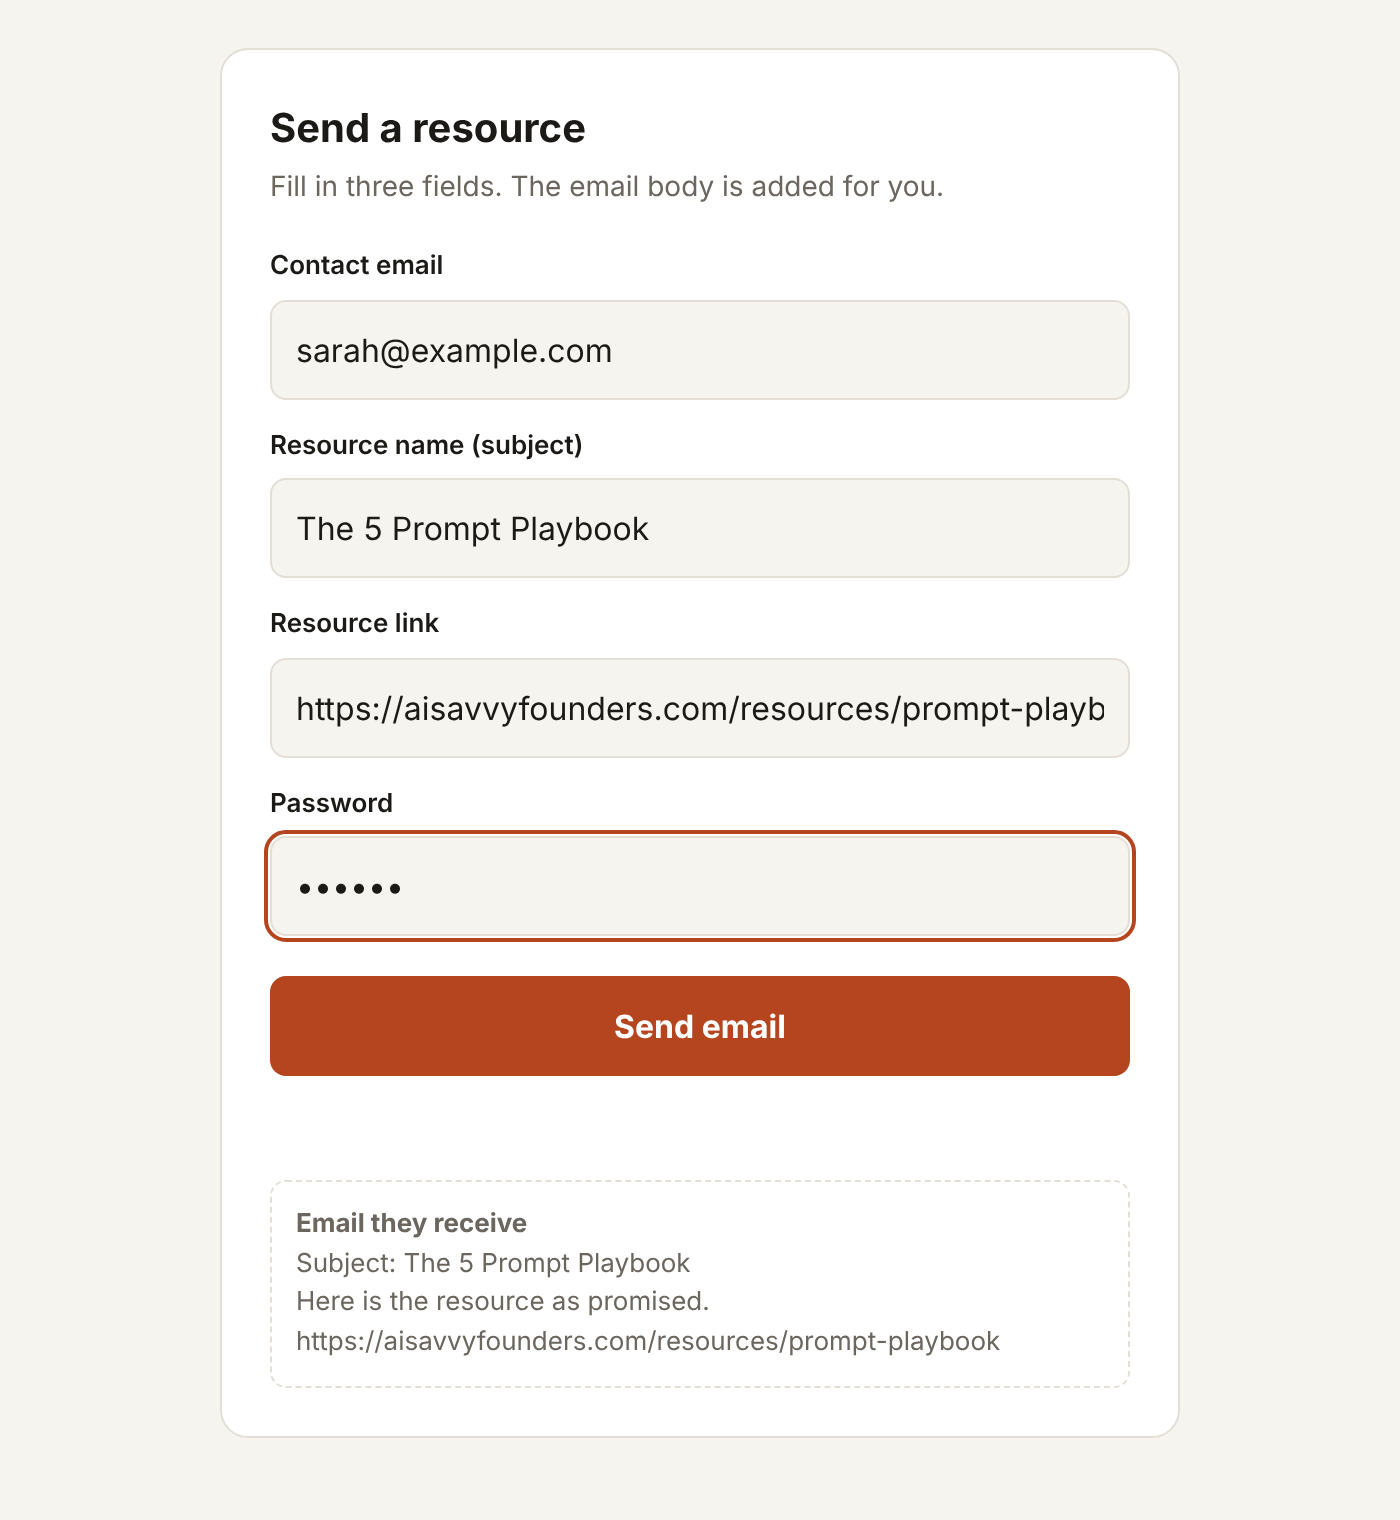
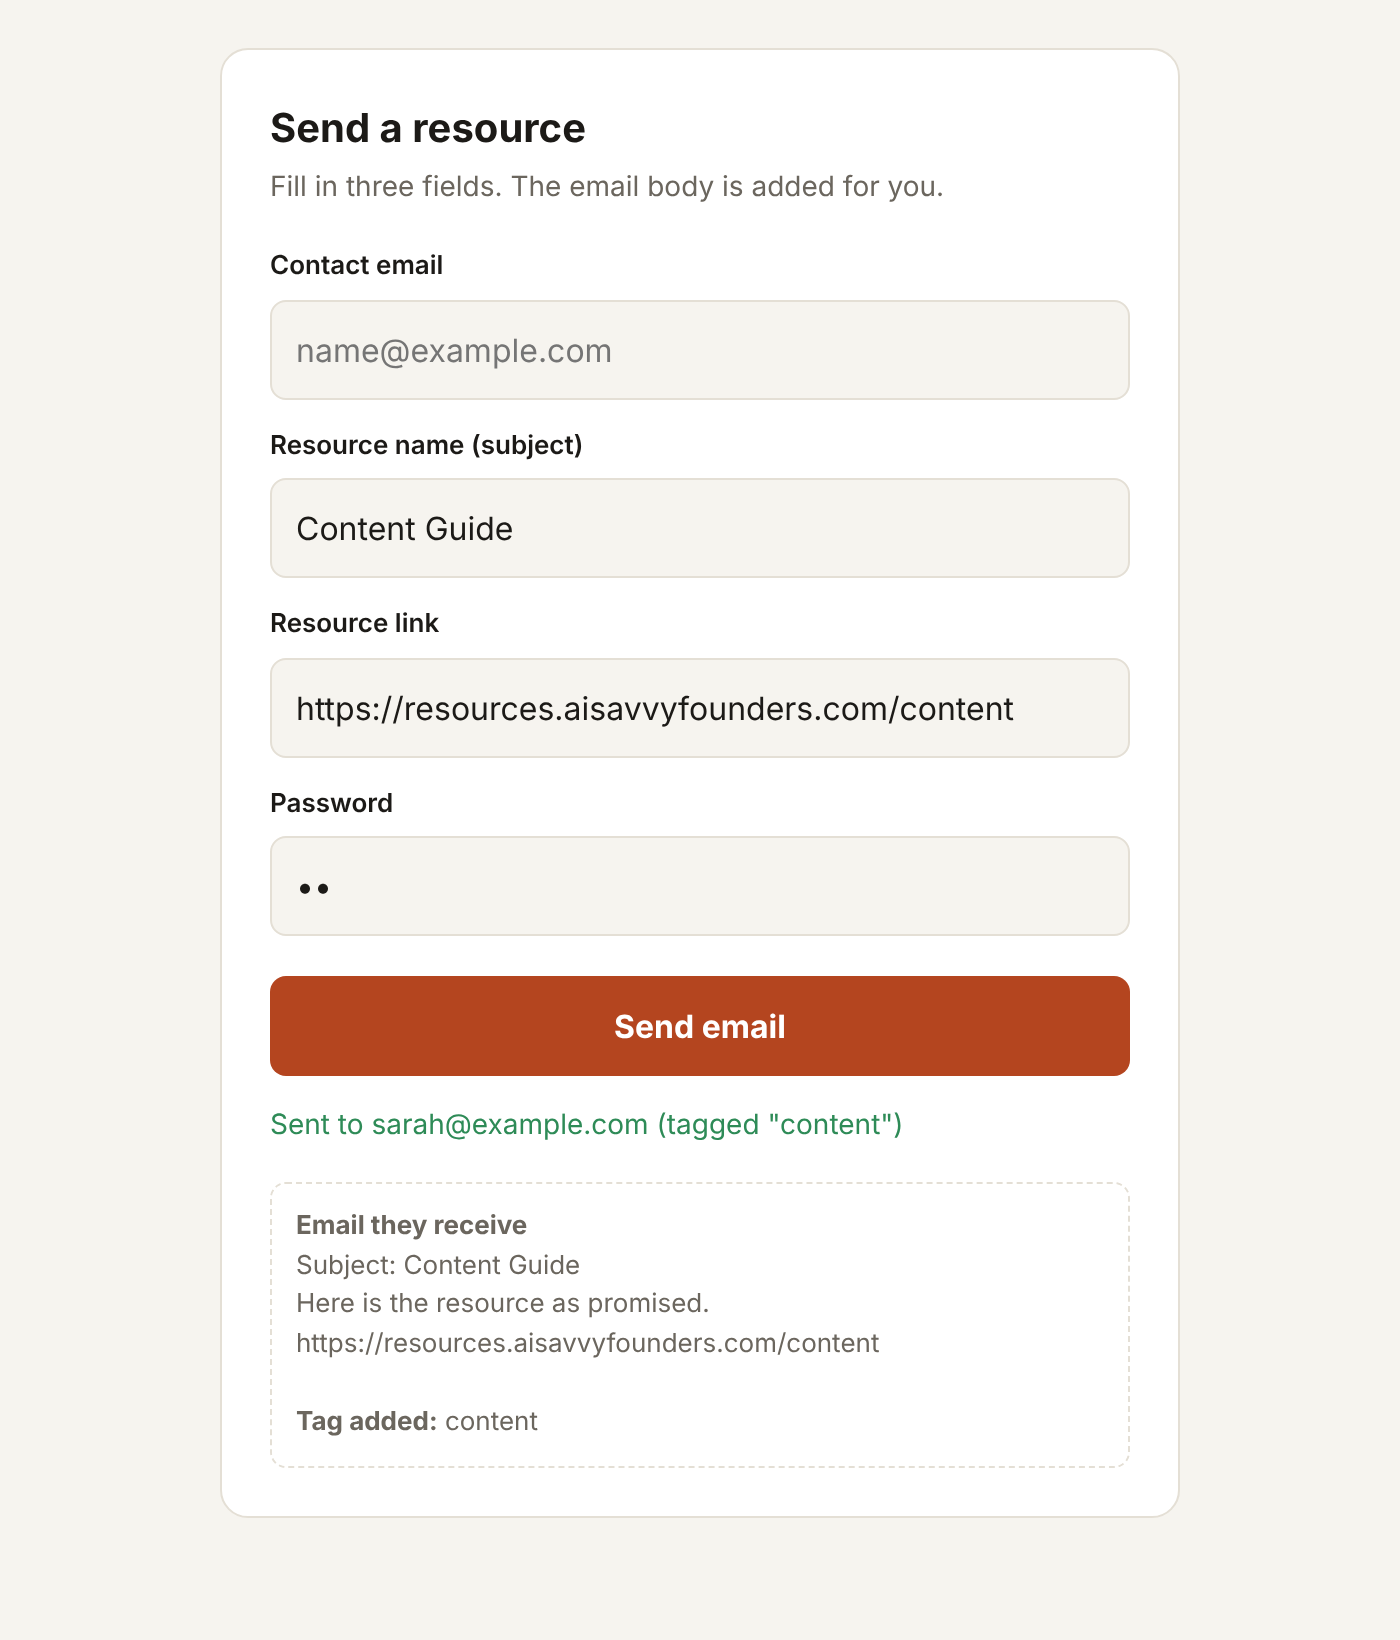
Tag contacts from the resource link slug
Claude-Session: https://claude.ai/code/session_01GNtKZBMB2dRwmVaVoFCEqe

Changed region(s): [[0.1843, 0.1546, 0.8293, 0.7112], [0.215, 0.7421, 0.7064, 0.8967], [0.1843, 0.0618, 0.6757, 0.1237]]

diff --git a/resource-sender-next/app/api/send/route.js b/resource-sender-next/app/api/send/route.js
@@ -1,5 +1,6 @@
 import { NextResponse } from "next/server";
 import { buildEmail } from "../../email-template";
+import { tagFromLink } from "../../../lib/tag";
 
 const GHL = "https://services.leadconnectorhq.com";
 
@@ -42,13 +43,26 @@ export async function POST(request) {
     const contactId = up.contact?.id;
     if (!contactId) throw new Error("Could not find or create the contact");
 
+    // Tag the contact with the term after the resource domain (adds, never replaces).
+    const tag = tagFromLink(url);
+    let tagged = null;
+    let tagError = null;
+    if (tag) {
+      try {
+        await ghl(`/contacts/${contactId}/tags`, { tags: [tag] });
+        tagged = tag;
+      } catch (e) {
+        tagError = e.message;
+      }
+    }
+
     const { text, html } = buildEmail(url, subj);
     const msg = { type: "Email", contactId, subject: subj, message: text, html };
     if (process.env.FROM_EMAIL) {
       msg.emailFrom = process.env.FROM_NAME ? `${process.env.FROM_NAME} <${process.env.FROM_EMAIL}>` : process.env.FROM_EMAIL;
     }
     await ghl("/conversations/messages", msg);
-    return NextResponse.json({ ok: true, isNew: !!up.new });
+    return NextResponse.json({ ok: true, isNew: !!up.new, tag: tagged, tagError });
   } catch (e) {
     return NextResponse.json({ error: e.message }, { status: 502 });
   }

diff --git a/resource-sender-next/app/page.js b/resource-sender-next/app/page.js
@@ -1,6 +1,7 @@
 "use client";
 
 import { useEffect, useState } from "react";
+import { tagFromLink } from "../lib/tag";
 
 export default function Home() {
   const [email, setEmail] = useState("");
@@ -31,7 +32,8 @@ export default function Home() {
       try {
         localStorage.setItem("rs_pw", password);
       } catch {}
-      setMsg({ type: "ok", text: `Sent to ${email.trim()}${data.isNew ? " (new contact created)" : ""}` });
+      const extra = [data.isNew ? "new contact created" : "", data.tag ? `tagged "${data.tag}"` : ""].filter(Boolean).join(", ");
+      setMsg({ type: data.tagError ? "err" : "ok", text: `Sent to ${email.trim()}${extra ? ` (${extra})` : ""}${data.tagError ? `. Tag failed: ${data.tagError}` : ""}` });
       setEmail("");
     } catch (err) {
       setMsg({ type: "err", text: err.message });
@@ -65,6 +67,9 @@ export default function Home() {
         Here is the resource as promised.
         <br />
         {link || "(link)"}
+        <br />
+        <br />
+        <b>Tag added:</b> {tagFromLink(link) || "none (link is not on the resources site)"}
       </div>
     </main>
   );

diff --git a/resource-sender-next/lib/tag.js b/resource-sender-next/lib/tag.js
@@ -1,0 +1,15 @@
+// Turns a resource link into a GoHighLevel tag.
+// https://resources.aisavvyfounders.com/content  ->  "content"
+// Only the first path segment is used; query strings and #anchors are ignored.
+export const RESOURCE_HOST = "resources.aisavvyfounders.com";
+
+export function tagFromLink(link) {
+  try {
+    const u = new URL(String(link).trim());
+    if (u.hostname.toLowerCase() !== RESOURCE_HOST) return null;
+    const slug = decodeURIComponent(u.pathname.split("/").filter(Boolean)[0] || "").trim().toLowerCase();
+    return slug || null;
+  } catch {
+    return null;
+  }
+}

diff --git a/resource-sender-next/README.md b/resource-sender-next/README.md
@@ -7,6 +7,11 @@ GoHighLevel account, so it appears in their conversation history.
 Email: branded layout with the resource name as the title, "Here is the resource as promised", and a button linking to the resource.
 Subject: the resource name you type.
 
+## Tagging
+The contact is tagged with the first term after `https://resources.aisavvyfounders.com/`
+(for example `.../content` adds the tag `content`). Existing tags are kept. Links on other
+domains are sent without a tag. Change the domain in `lib/tag.js`.
+
 ## 1. Get your GoHighLevel details
 - **Token:** Settings > Private Integrations > Create new. Scopes:
   `contacts.write`, `contacts.readonly`, `conversations/message.write`.
